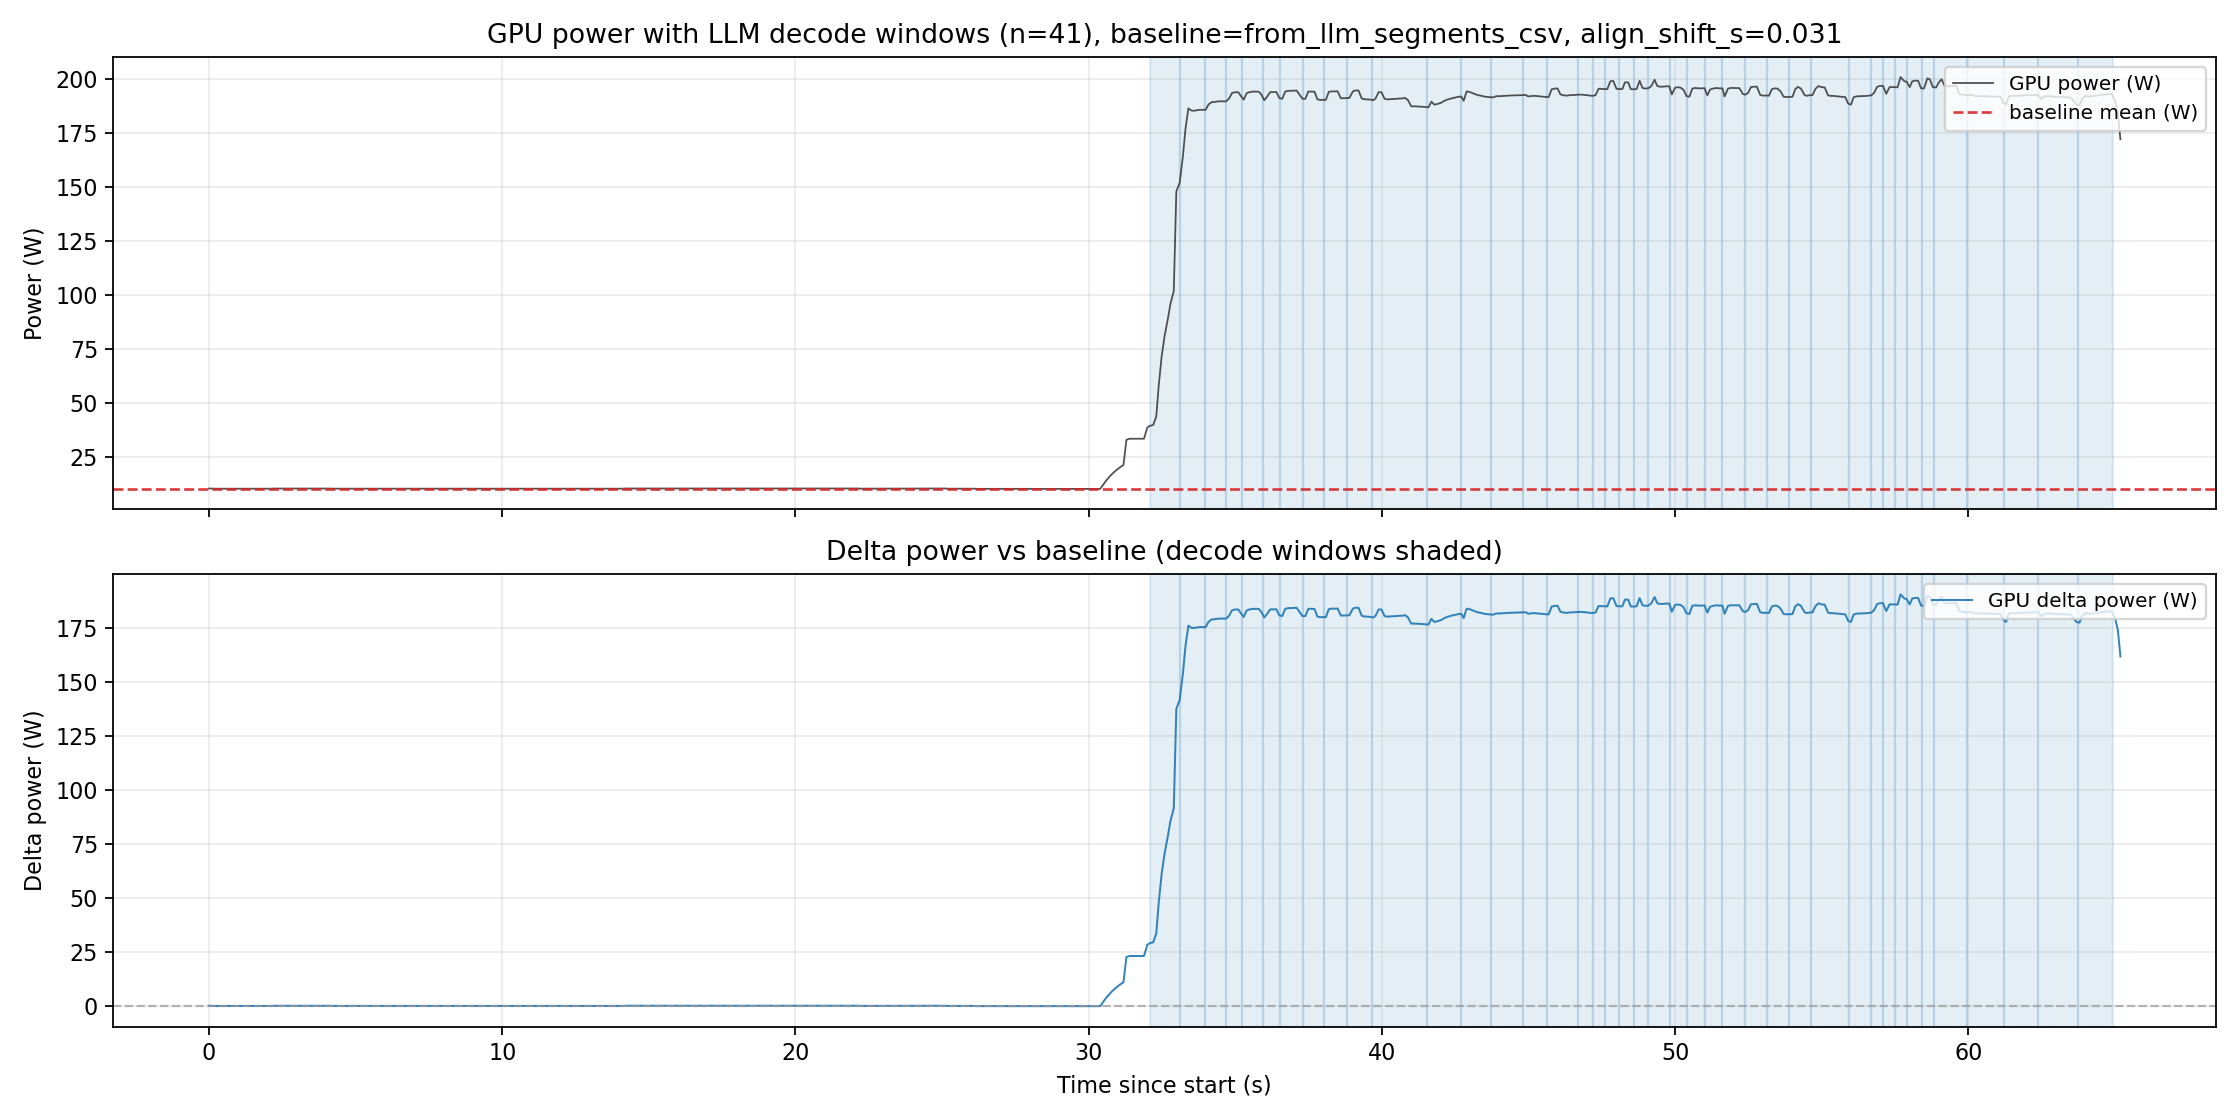
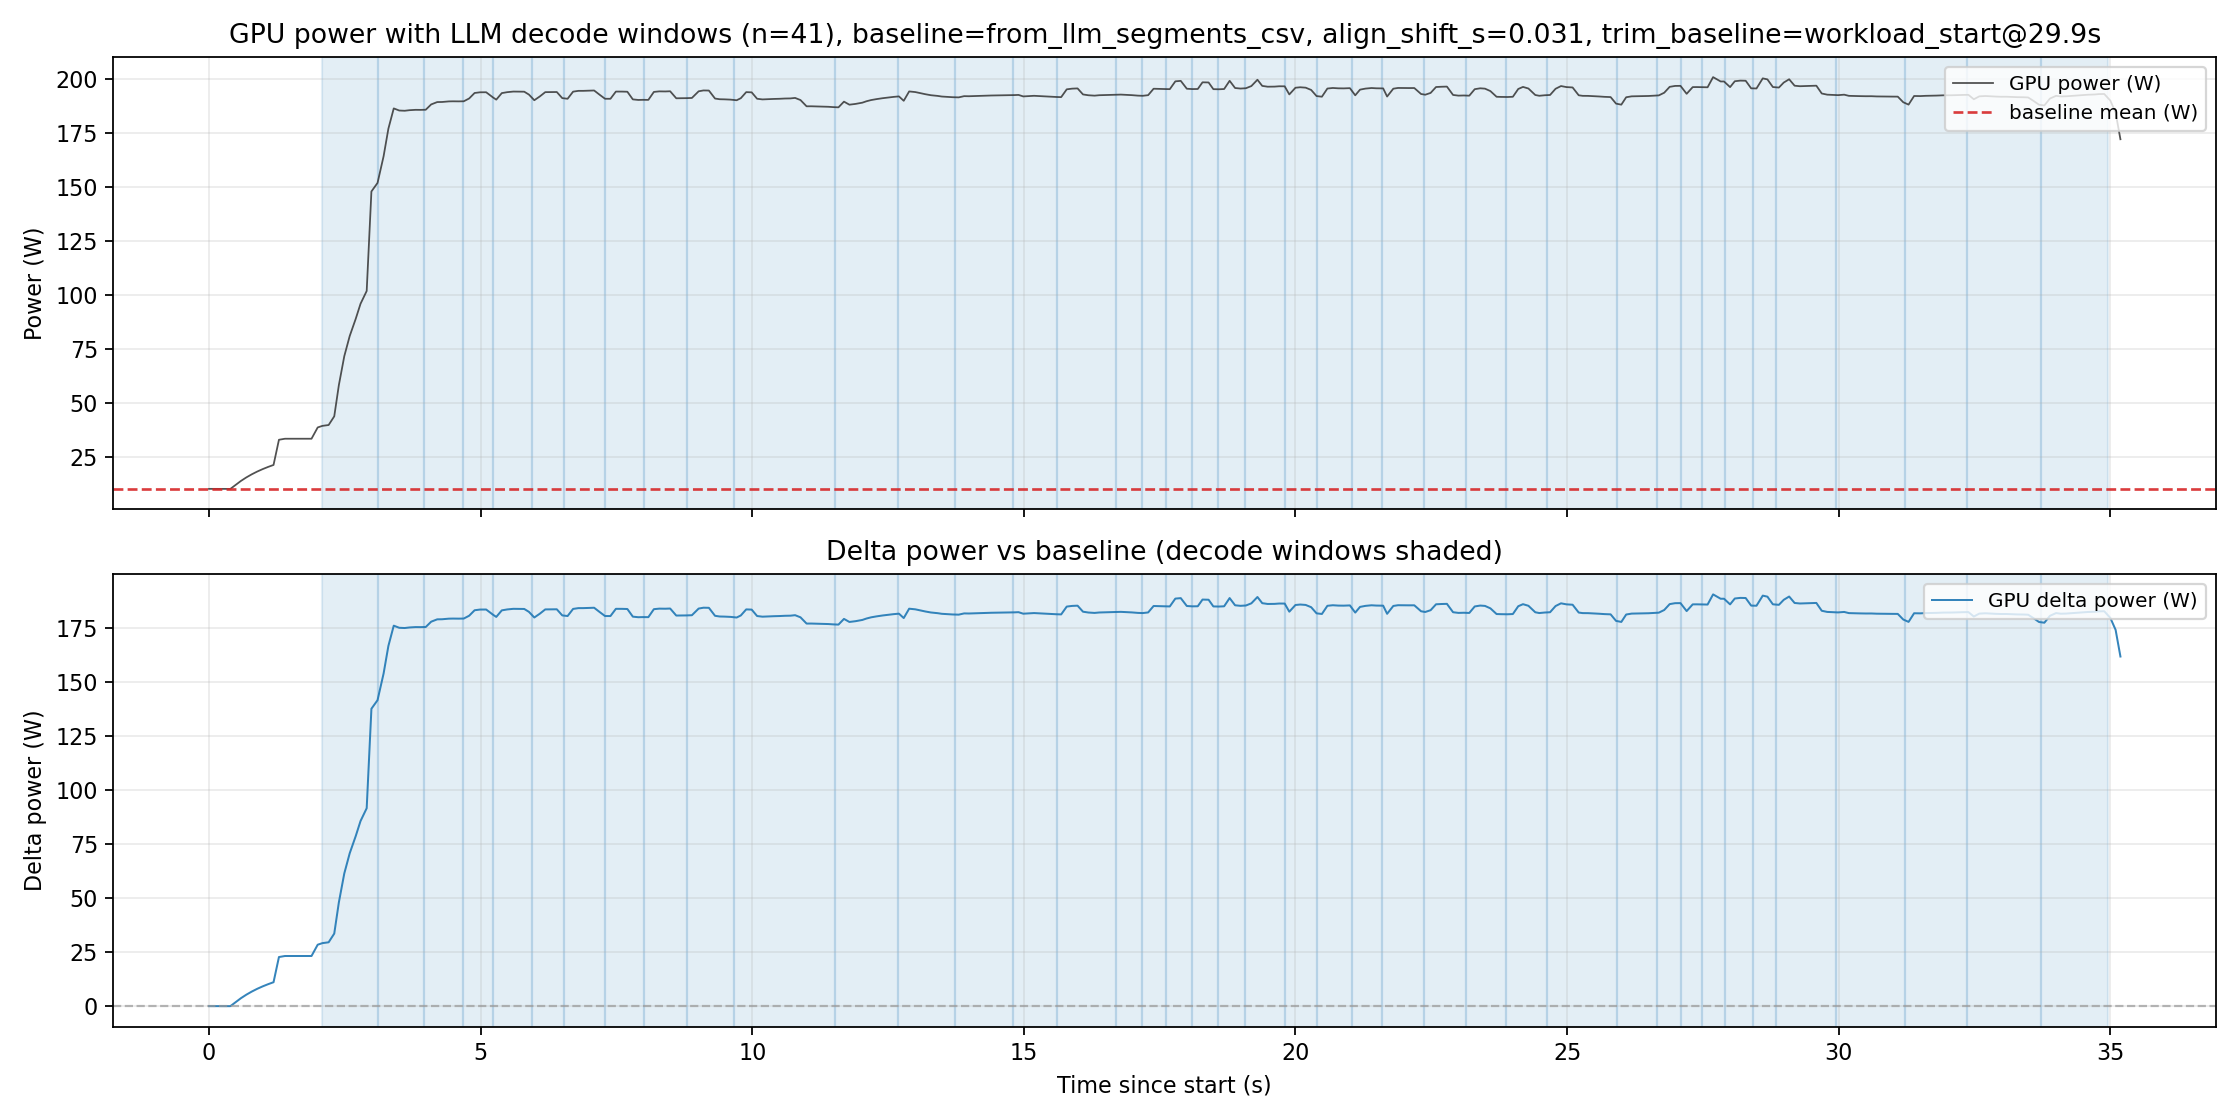
Updated nvidia plot

diff --git a/scripts/plot_nvidia_gpu_power.py b/scripts/plot_nvidia_gpu_power.py
@@ -44,6 +44,23 @@ def read_llm_intervals(run_log: str, prefix: str = "LLMXROBOT_EVENT "):
     return intervals
 
 
+def read_first_event_time(run_log: str, event: str, prefix: str = "LLMXROBOT_EVENT ") -> float | None:
+    with open(run_log, "r", encoding="utf-8", errors="replace") as f:
+        for line in f:
+            if not line.startswith(prefix):
+                continue
+            try:
+                payload = json.loads(line[len(prefix) :].strip())
+            except Exception:
+                continue
+            if payload.get("event") != event:
+                continue
+            t = payload.get("t_epoch_s")
+            if isinstance(t, (int, float)):
+                return float(t)
+    return None
+
+
 @dataclass(frozen=True)
 class SegmentEnergy:
     idx: int
@@ -155,7 +172,16 @@ def plot_power_per_test(segments: list[SegmentEnergy], outpath: str, rails: list
     plt.close(fig)
 
 
-def plot_power_trace(power_csv: str, run_log: str, segments: list[SegmentEnergy], outpath: str, baseline_s: float | None, clamp_delta: bool, align: bool):
+def plot_power_trace(
+    power_csv: str,
+    run_log: str,
+    segments: list[SegmentEnergy],
+    outpath: str,
+    baseline_s: float | None,
+    clamp_delta: bool,
+    align: bool,
+    trim_baseline: bool,
+):
     ts, p_mw = read_power_csv(power_csv)
     if not ts:
         raise SystemExit("No power samples found.")
@@ -192,26 +218,56 @@ def plot_power_trace(power_csv: str, run_log: str, segments: list[SegmentEnergy]
         vals = [mw for t, mw in zip(ts, p_mw) if t < baseline_end]
         baseline_mean = (sum(vals) / len(vals)) if vals else 0.0
 
-    t0 = ts[0]
-    x = [t - t0 for t in ts]
-    p_w = [mw / 1000.0 for mw in p_mw]
-    dp_w = [(mw - baseline_mean) / 1000.0 for mw in p_mw]
+    # Trim the baseline part of the trace (visualization only).
+    trim_label = "none"
+    trim_start = ts[0]
+    if trim_baseline:
+        workload_start = read_first_event_time(run_log, "workload_start")
+        if workload_start is not None:
+            trim_label = "workload_start"
+            trim_start = workload_start
+        elif baseline_s is not None:
+            trim_label = "baseline_s"
+            trim_start = ts[0] + float(baseline_s)
+        else:
+            trim_label = "first_decode"
+            trim_start = first_start
+
+    ts_plot = ts
+    p_plot = p_mw
+    if trim_baseline:
+        keep = [(t, mw) for t, mw in zip(ts, p_mw) if t >= trim_start]
+        if keep:
+            ts_plot = [t for t, _mw in keep]
+            p_plot = [mw for _t, mw in keep]
+
+    t0 = ts_plot[0]
+    x = [t - t0 for t in ts_plot]
+
+    fig, (ax0, ax1) = plt.subplots(nrows=2, ncols=1, figsize=(14, 7), sharex=True)
+    p_w = [mw / 1000.0 for mw in p_plot]
+    dp_w = [(mw - baseline_mean) / 1000.0 for mw in p_plot]
     if clamp_delta:
         dp_w = [max(0.0, v) for v in dp_w]
 
-    fig, (ax0, ax1) = plt.subplots(nrows=2, ncols=1, figsize=(14, 7), sharex=True)
     ax0.plot(x, p_w, linewidth=0.8, color="#333333", alpha=0.85, label="GPU power (W)")
     ax0.axhline(baseline_mean / 1000.0, color="#d62728", linestyle="--", linewidth=1.2, alpha=0.9, label="baseline mean (W)")
     ax1.plot(x, dp_w, linewidth=0.9, color="#1f77b4", alpha=0.9, label="GPU delta power (W)")
     ax1.axhline(0.0, color="#999999", linestyle="--", linewidth=1.0, alpha=0.7)
 
     for (s, e, _m) in intervals:
-        xs = s - t0
-        xe = e - t0
+        if e <= t0:
+            continue
+        xs = max(0.0, s - t0)
+        xe = max(0.0, e - t0)
         ax0.axvspan(xs, xe, color="#1f77b4", alpha=0.12)
         ax1.axvspan(xs, xe, color="#1f77b4", alpha=0.12)
 
-    ax0.set_title(f"GPU power with LLM decode windows (n={len(intervals)}), baseline={baseline_mode}, align_shift_s={shift_s:.3f}")
+    trim_desc = f"{trim_label}@{trim_start - ts[0]:.1f}s" if trim_baseline else "none"
+    ax0.set_title(
+        f"GPU power with LLM decode windows (n={len(intervals)}), baseline={baseline_mode}, "
+        f"align_shift_s={shift_s:.3f}, trim_baseline={trim_desc}"
+    )
     ax1.set_title("Delta power vs baseline (decode windows shaded)")
     ax1.set_xlabel("Time since start (s)")
     ax0.set_ylabel("Power (W)")
@@ -234,6 +290,7 @@ def main():
     ap.add_argument("--baseline-s", default="auto", help="Baseline seconds for trace, or 'auto' (default: auto).")
     ap.add_argument("--no-align", action="store_true", help="Disable small timestamp alignment.")
     ap.add_argument("--clamp-delta", action="store_true", help="Clamp delta power/energy at 0 (visualization only).")
+    ap.add_argument("--trim-baseline", action="store_true", help="Start trace at workload_start (or baseline end) instead of t=0.")
     ap.add_argument("--rails", default="", help="Comma-separated rails to plot (default: infer from segments).")
     ap.add_argument("--outdir", default="plots_gpu", help="Output directory.")
     args = ap.parse_args()
@@ -284,7 +341,16 @@ def main():
     power_plot = os.path.join(args.outdir, "power_per_test.png")
     plot_power_per_test(segments, power_plot, rails=rails, clamp_delta=args.clamp_delta)
     trace_plot = os.path.join(args.outdir, "power_trace_with_decode_windows.png")
-    plot_power_trace(pwr, run, segments, trace_plot, baseline_s=baseline_s, clamp_delta=args.clamp_delta, align=(not args.no_align))
+    plot_power_trace(
+        pwr,
+        run,
+        segments,
+        trace_plot,
+        baseline_s=baseline_s,
+        clamp_delta=args.clamp_delta,
+        align=(not args.no_align),
+        trim_baseline=args.trim_baseline,
+    )
     print("wrote:")
     print(f"  {energy_plot}")
     print(f"  {power_plot}")
